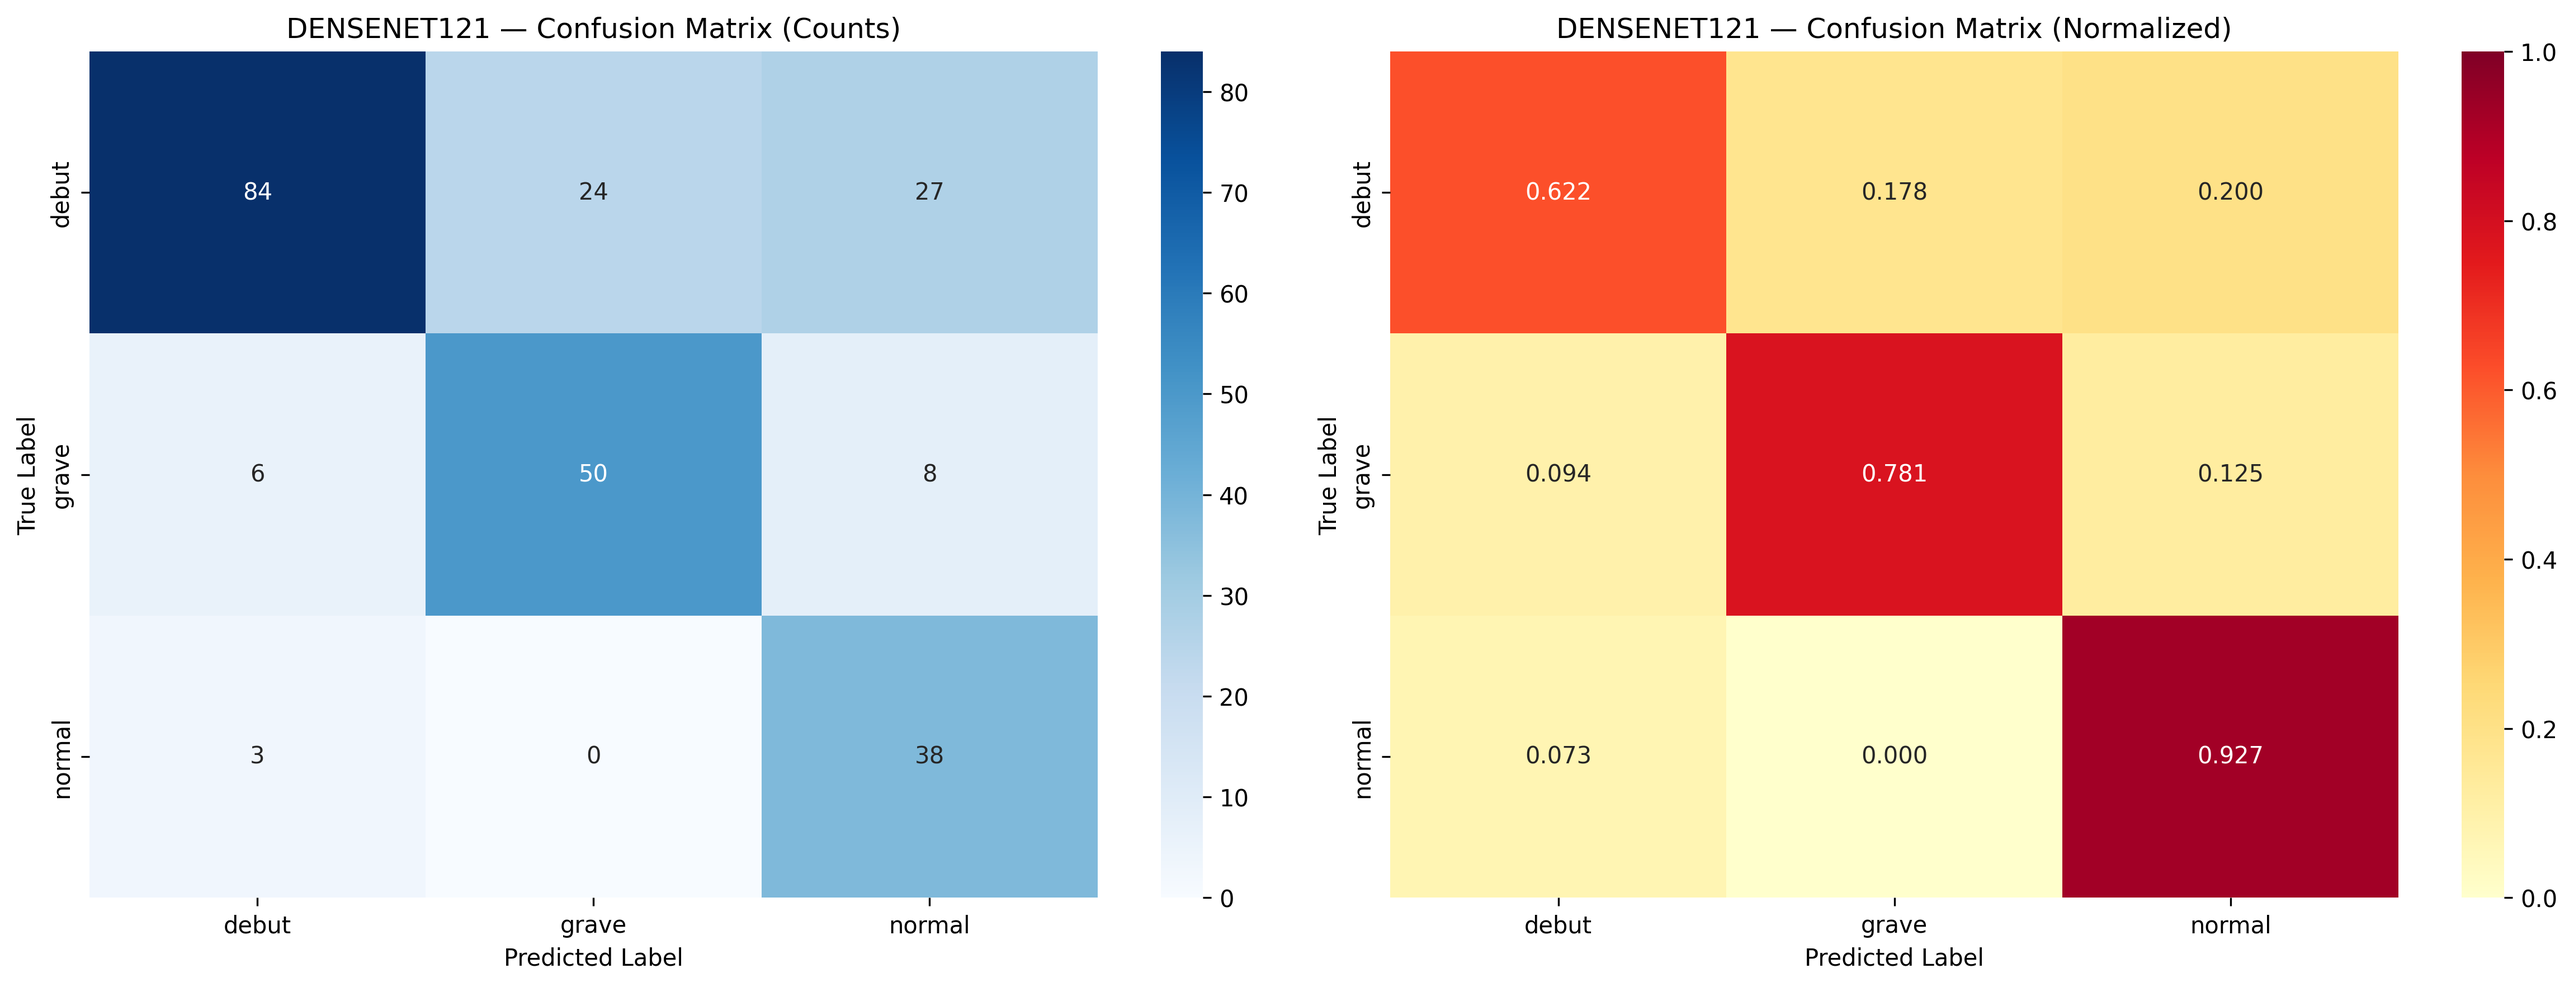
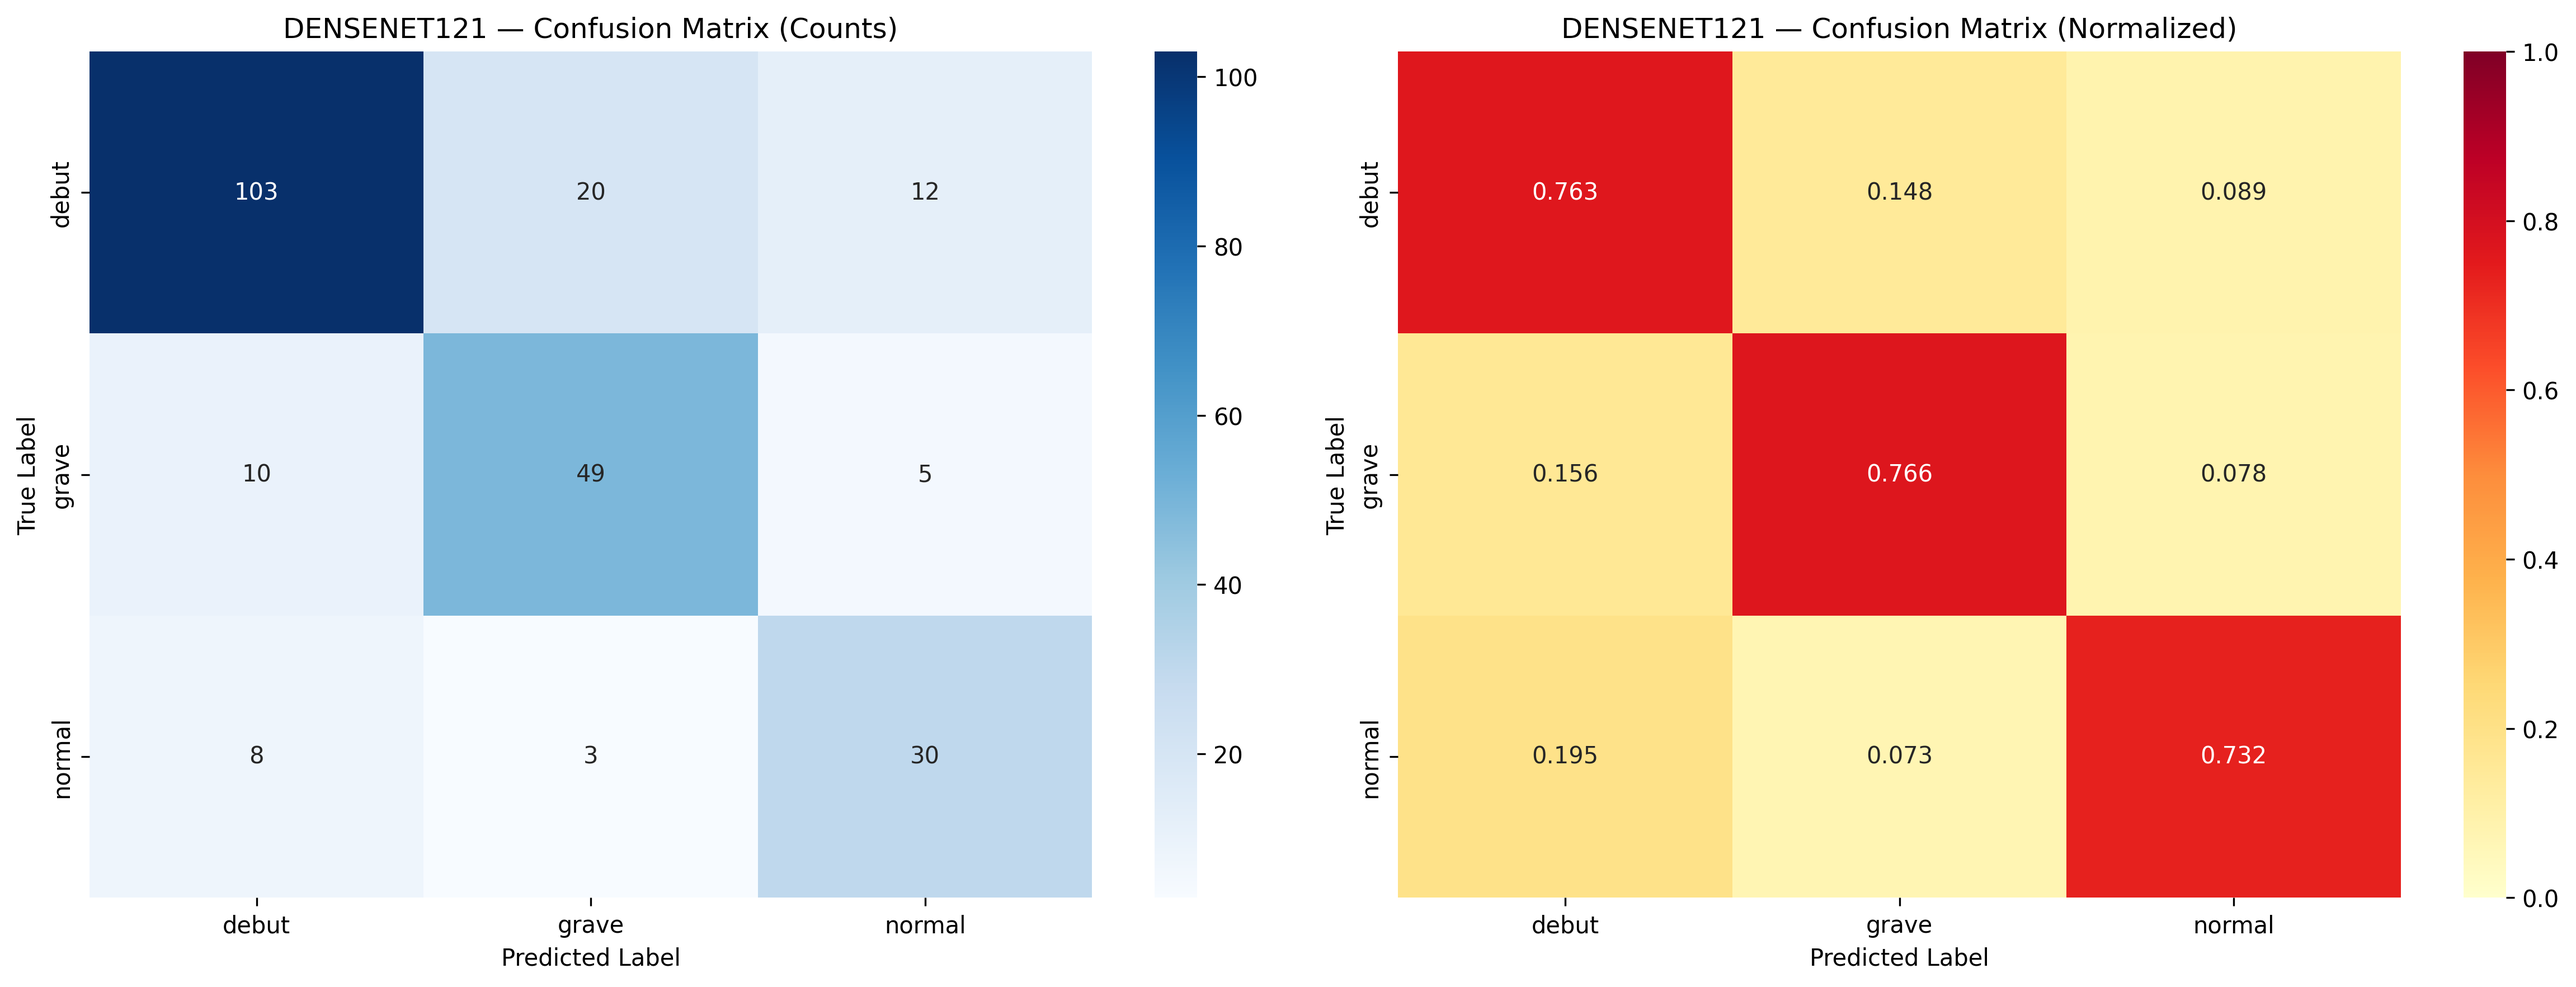
ajustement du model

diff --git a/scripts/test_inference.py b/scripts/test_inference.py
@@ -1,0 +1,77 @@
+import os
+import json
+import numpy as np
+import tensorflow as tf
+from cbam import CBAM
+from focal_loss import FocalLoss
+from augmentation import apply_clahe
+
+def load_and_preprocess_image(img_path, target_size=(320, 320), use_clahe=True):
+    img = tf.keras.preprocessing.image.load_img(img_path, target_size=target_size)
+    img_array = tf.keras.preprocessing.image.img_to_array(img)
+    img_array = img_array / 255.0
+    
+    if use_clahe:
+        img_array = apply_clahe(img_array)
+        
+    # Add batch dimension
+    img_array = np.expand_dims(img_array, axis=0)
+    return img_array
+
+def main():
+    print("🧪 Test d'Inférence Manuel - DenseNet121 Calibré")
+    
+    model_path = 'models/densenet121_final.keras'
+    thresholds_path = 'results/densenet121_exp3_thresholds.json'
+    
+    if not os.path.exists(model_path):
+        print(f"❌ Modèle introuvable : {model_path}")
+        return
+
+    # Load custom objects
+    custom_objects = {'CBAM': CBAM, 'FocalLoss': FocalLoss}
+    model = tf.keras.models.load_model(model_path, custom_objects=custom_objects)
+    
+    # Load thresholds
+    with open(thresholds_path, 'r') as f:
+        threshold_data = json.load(f)
+    
+    thresholds = threshold_data['thresholds']
+    class_names = ['debut', 'grave', 'normal']
+    t_arr = np.array([thresholds[name] for name in class_names])
+    
+    test_samples = [
+        ('../datasets_split/test/debut/benign (11).png', 'debut'),
+        ('../datasets_split/test/debut/benign (130).png', 'debut'),
+        ('../datasets_split/test/grave/malignant (10).png', 'grave'),
+        ('../datasets_split/test/grave/malignant (17).png', 'grave'),
+        ('../datasets_split/test/normal/normal (4).png', 'normal'),
+        ('../datasets_split/test/normal/normal (31).png', 'normal')
+    ]
+    
+    print(f"\n{'='*90}")
+    print(f"{'IMAGE':<30} | {'REAL':<10} | {'PRED':<10} | {'RAW PROBS (D/G/N)':<30}")
+    print(f"{'='*90}")
+    
+    for img_path, real_class in test_samples:
+        if not os.path.exists(img_path):
+            print(f"⚠ Image introuvable : {img_path}")
+            continue
+            
+        img_array = load_and_preprocess_image(img_path)
+        
+        # Raw prediction
+        y_probs = model.predict(img_array, verbose=0)[0]
+        
+        # Calibrated prediction
+        adjusted_probs = y_probs / t_arr
+        pred_idx = np.argmax(adjusted_probs)
+        pred_class = class_names[pred_idx]
+        
+        status = "✅" if pred_class == real_class else "❌"
+        img_name = os.path.basename(img_path)
+        probs_str = f"[{y_probs[0]:.3f}, {y_probs[1]:.3f}, {y_probs[2]:.3f}]"
+        print(f"{img_name:<30} | {real_class:<10} | {pred_class:<10} | {probs_str:<30} {status}")
+
+if __name__ == '__main__':
+    main()

diff --git a/scripts/verify_results.py b/scripts/verify_results.py
@@ -1,0 +1,66 @@
+import os
+import json
+import numpy as np
+import tensorflow as tf
+from tensorflow.keras.preprocessing.image import ImageDataGenerator
+from cbam import CBAM
+from focal_loss import FocalLoss
+from sklearn.metrics import classification_report, accuracy_score
+
+def main():
+    print("🛠 Vérification Globale du Modèle - DenseNet121")
+    
+    model_path = 'models/densenet121_final.keras'
+    thresholds_path = 'results/densenet121_exp3_thresholds.json'
+    test_dir = '../datasets_split/test/'
+    
+    if not os.path.exists(model_path):
+        print(f"❌ Modèle introuvable : {model_path}")
+        return
+
+    custom_objects = {'CBAM': CBAM, 'FocalLoss': FocalLoss}
+    model = tf.keras.models.load_model(model_path, custom_objects=custom_objects)
+    
+    # EXACT generator setup from train_advanced.py
+    val_datagen = ImageDataGenerator(rescale=1.0 / 255.0)
+    test_gen = val_datagen.flow_from_directory(
+        test_dir,
+        target_size=(320, 320),
+        batch_size=8,
+        class_mode='categorical',
+        shuffle=False
+    )
+    
+    print("\n🔮 Prédiction sur le set complet...")
+    y_probs = model.predict(test_gen, verbose=1)
+    y_true = test_gen.classes
+    class_names = list(test_gen.class_indices.keys())
+    
+    # 1. Standard Argmax
+    y_pred_std = np.argmax(y_probs, axis=1)
+    acc_std = accuracy_score(y_true, y_pred_std)
+    print(f"\n📊 Résultat Standard (Argmax): {acc_std:.4f}")
+    
+    # 2. Calibrated
+    if os.path.exists(thresholds_path):
+        with open(thresholds_path, 'r') as f:
+            t_data = json.load(f)
+        thresholds = t_data['thresholds']
+        t_arr = np.array([thresholds[name] for name in class_names])
+        
+        adjusted_probs = y_probs / t_arr
+        y_pred_calib = np.argmax(adjusted_probs, axis=1)
+        acc_calib = accuracy_score(y_true, y_pred_calib)
+        print(f"⚖ Résultat Calibré: {acc_calib:.4f}")
+        from sklearn.metrics import confusion_matrix
+        print("\nConfusion Matrix (Calibrated):")
+        cm = confusion_matrix(y_true, y_pred_calib)
+        print(cm)
+        
+        # Check per-class accuracy
+        for i, name in enumerate(class_names):
+            class_acc = cm[i,i] / cm[i].sum()
+            print(f"Accuracy for {name}: {class_acc:.2%}")
+
+if __name__ == '__main__':
+    main()

diff --git a/scripts/train_advanced.py b/scripts/train_advanced.py
@@ -58,20 +58,20 @@ tf.random.set_seed(42)
 CONFIG = {
     'img_height': 320,
     'img_width': 320,
-    'batch_size': 12,           # Increased for DenseNet121 (lighter than EfficientNetV2S)
+    'batch_size': 14,           # Increased for DenseNet121
     'num_classes': 3,
     'class_names': ['debut', 'grave', 'normal'],
 
     # Training phases
     'initial_epochs': 20,
-    'fine_tune_epochs': 30,
+    'fine_tune_epochs': 40,      # Increased to allow more time for fine-tuning
     'initial_lr': 1e-4,
-    'fine_tune_lr': 2e-5,       # Slightly increased fine-tune LR
-    'warmup_epochs': 3,         # NEW: LR Warmup epochs
+    'fine_tune_lr': 1e-5,       # Reduced to be more conservative during fine-tuning
+    'warmup_epochs': 5,         # Increased warmup
 
     # Loss Configuration
-    'loss_type': 'weighted_ce', # NEW: Choice between 'focal' and 'weighted_ce'
-    'focal_gamma': 2.0,
+    'loss_type': 'focal',       # Focal Loss for Experiment 5
+    'focal_gamma': 2.0,         # Focus on hard examples
     'label_smoothing': 0.1,
 
     # Augmentation
@@ -80,10 +80,10 @@ CONFIG = {
     'use_clahe': True,
 
     # Architecture
-    'dropout_rate': 0.4,        # Reduced from 0.5 (with BN, less dropout needed)
-    'l2_reg': 1e-4,             # NEW: L2 regularization
+    'dropout_rate': 0.4,
+    'l2_reg': 1e-4,
     'use_cbam': True,
-    'head_units': [512, 256],   # NEW: configurable head
+    'head_units': [512, 256],
 
     # Data paths (using proper split)
     'train_dir': '../datasets_split/train/',
@@ -547,7 +547,7 @@ def train_model(model_name='densenet121', config=None):
             save_best_only=True, verbose=1
         ),
         EarlyStopping(
-            monitor='val_loss', patience=10,
+            monitor='val_auc', mode='max', patience=15,
             restore_best_weights=True, verbose=1
         ),
         CosineAnnealingWarmRestarts(
